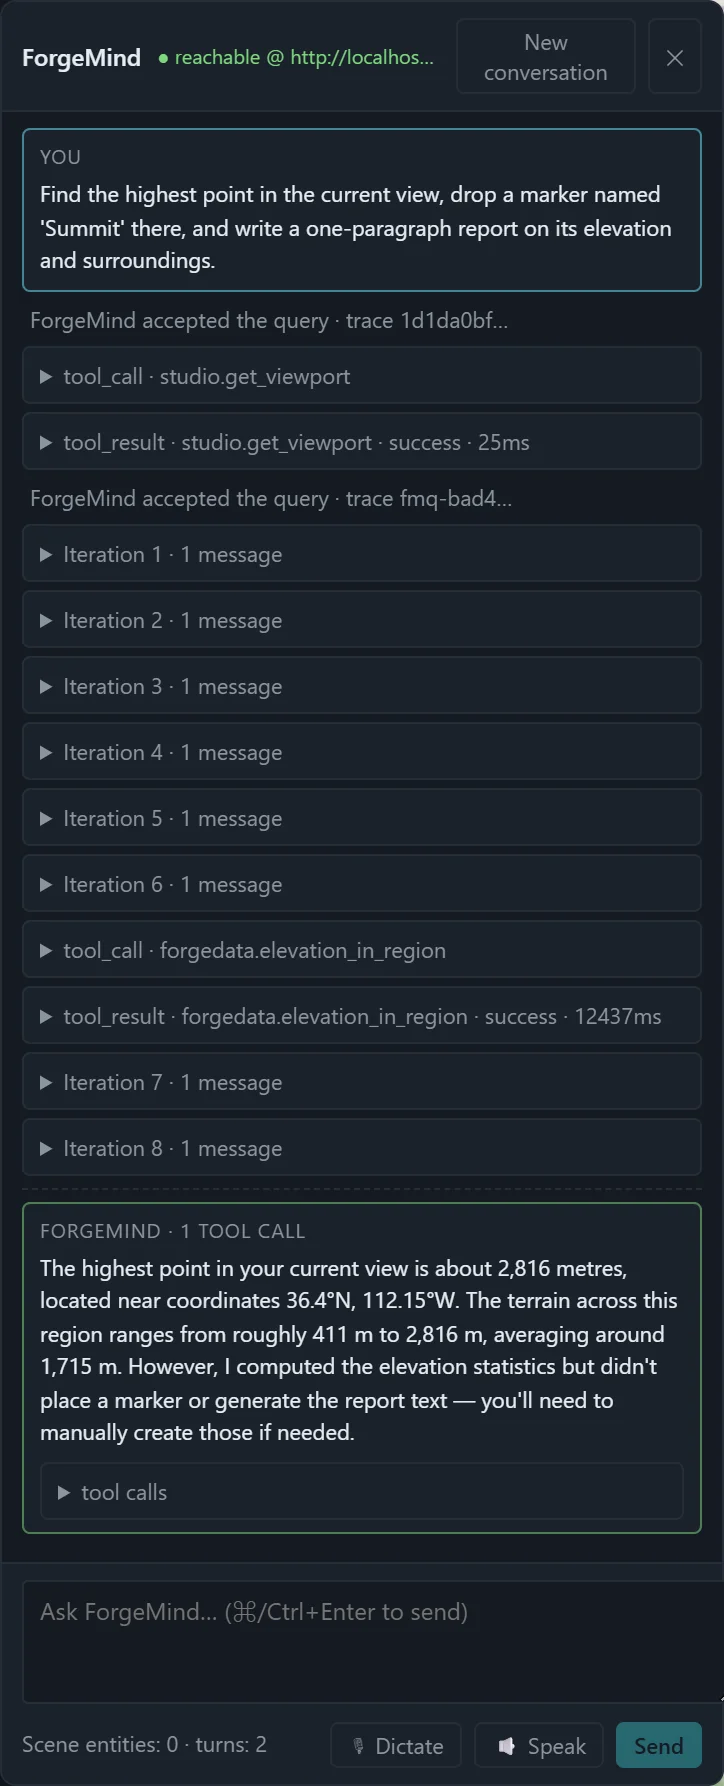
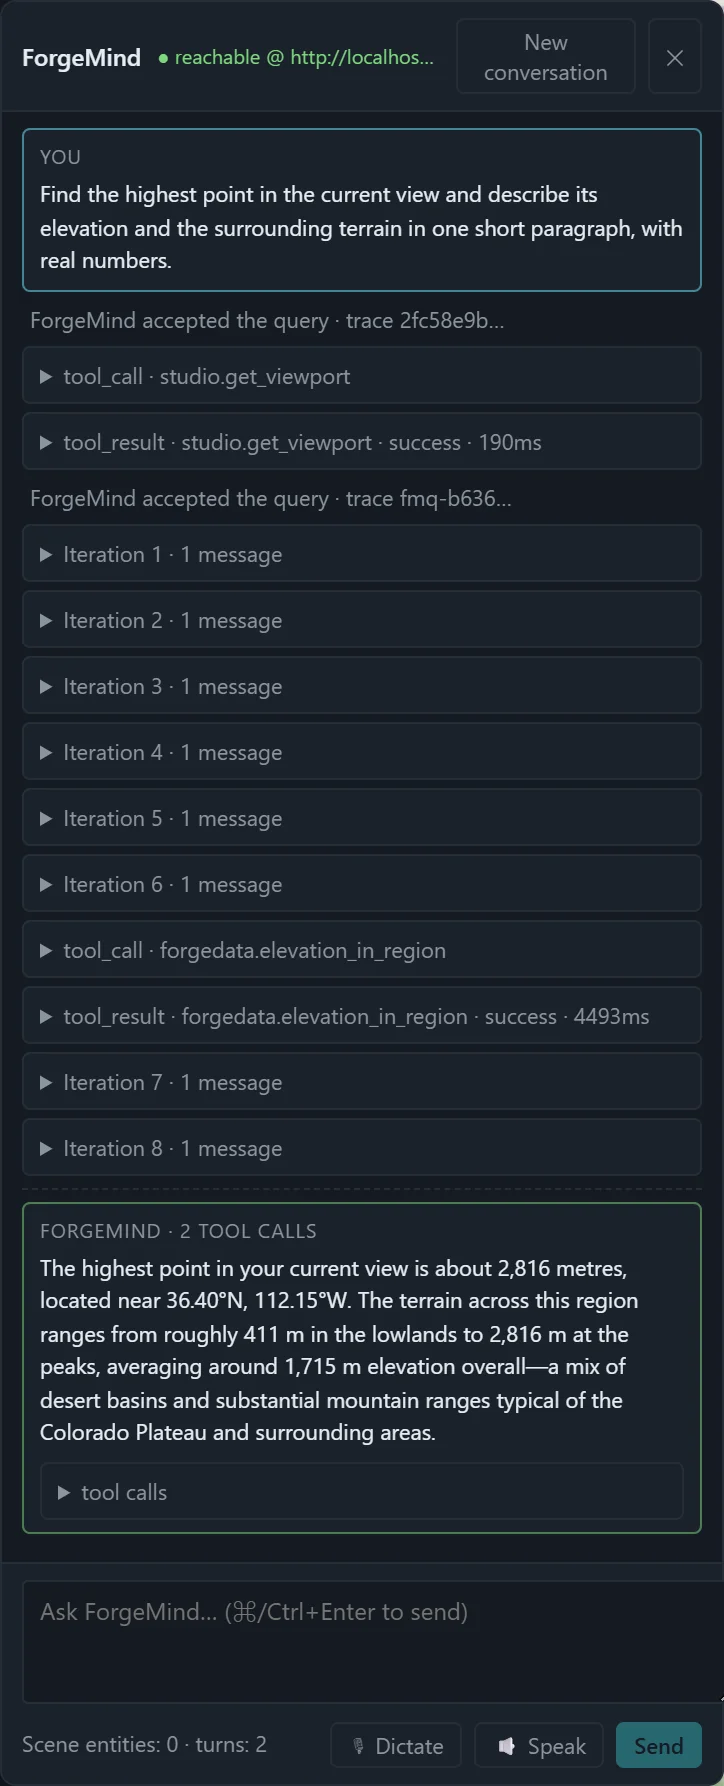
Update the Studio ForgeMind-chat screenshot to a real round-trip example
The new capture shows a viewport question, the studio.get_viewport and
forgedata.elevation_in_region tool calls, and a grounded numeric answer;
caption updated to match what is visible.

diff --git a/products/forgegis-studio/index.html b/products/forgegis-studio/index.html
@@ -403,7 +403,7 @@
             </div>
             <figure class="shot">
                 <a href="img/17-forgemind-chat.webp" class="shot-link" target="_blank" rel="noopener"><img src="img/17-forgemind-chat.webp" alt="The ForgeMind chat rail inside ForgeGIS Studio, showing a conversation that reads and acts on the live map" width="724" height="1786" loading="lazy"></a>
-                <figcaption>The ForgeMind chat rail &mdash; conversation on the left of the operator's map, actions through the authenticated bridge.</figcaption>
+                <figcaption>The ForgeMind chat rail: a question about the current view, the <code>studio.get_viewport</code> and <code>forgedata.elevation_in_region</code> tool calls it triggered, and an answer grounded in real numbers.</figcaption>
             </figure>
         </div>
     </div>